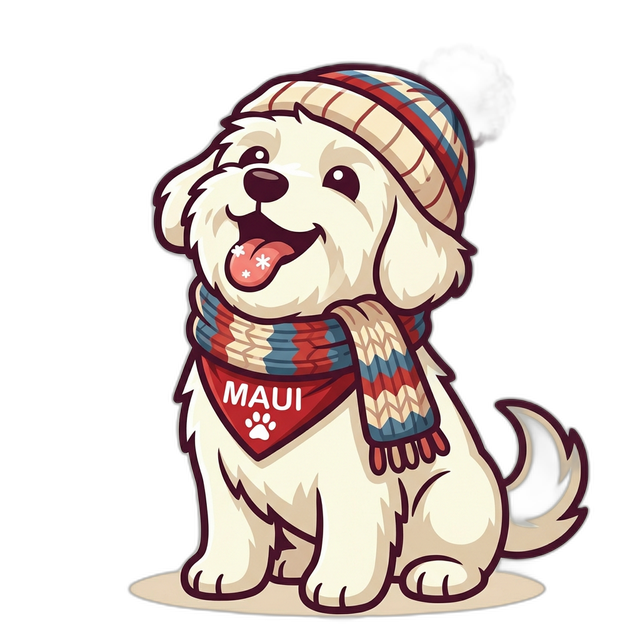
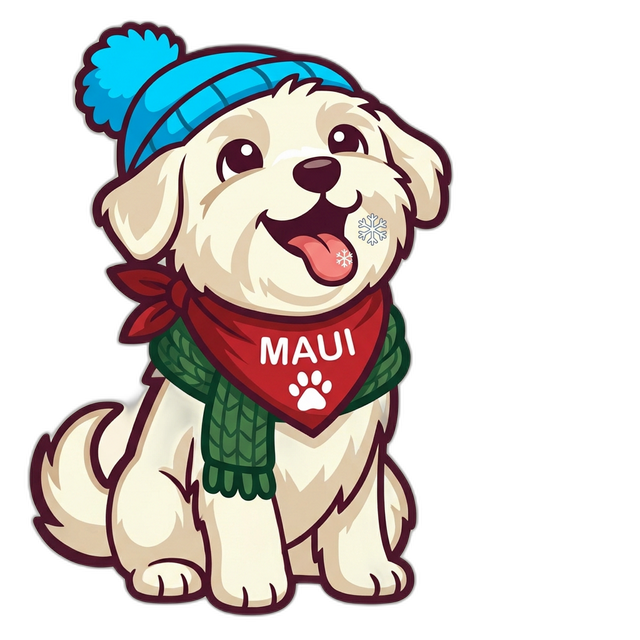
Regenerate Winter Maui with a bright blue pom-pom and make background transparent

diff --git a/make_transparent_single.py b/make_transparent_single.py
@@ -1,0 +1,20 @@
+import os
+
+try:
+    from rembg import remove
+    from PIL import Image
+except ImportError:
+    print("Please install rembg and Pillow: pip install rembg Pillow")
+    exit(1)
+
+input_path = '/Users/admin/.gemini/antigravity/brain/533ed358-d0b4-4c1a-b974-2ebd41266a5a/winter_maui_blue_pompom_1772658595650.png'
+output_path = 'public/maui-assets/maui-winter-grooming-blog.png'
+
+print(f"Removing background for {input_path}...")
+try:
+    input_image = Image.open(input_path).convert("RGBA")
+    transparent_image = remove(input_image)
+    transparent_image.save(output_path)
+    print(f"Successfully saved transparent image to {output_path}")
+except Exception as e:
+    print(f"Error: {e}")
